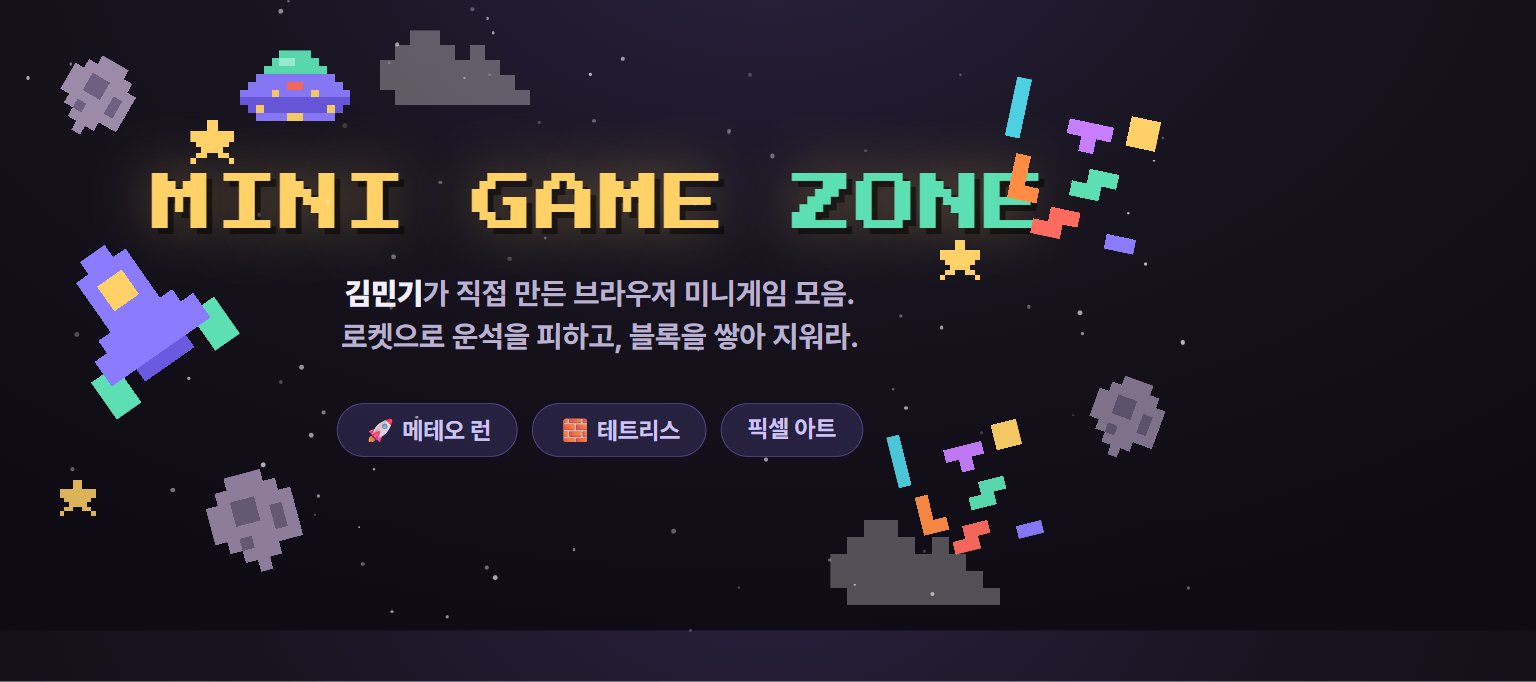
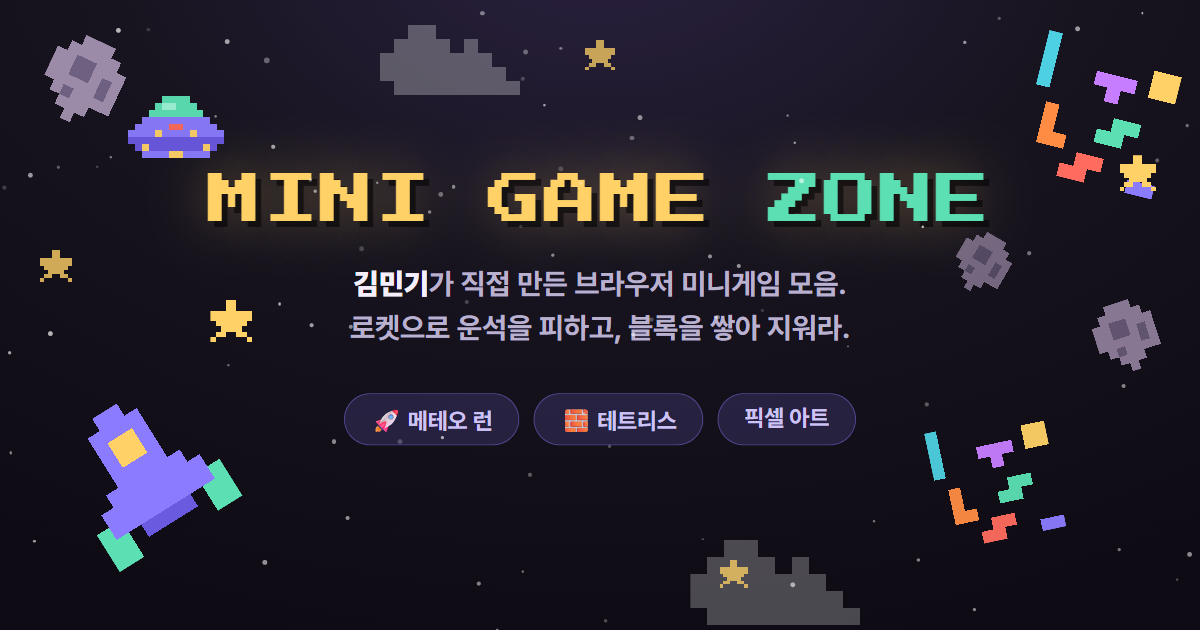
OG 커버 균형 조정: 텍스트 정중앙 + 스프라이트 네 모서리 대칭 배치

diff --git a/tools/og-card.html b/tools/og-card.html
@@ -8,27 +8,29 @@
 <style>
   * { margin: 0; padding: 0; box-sizing: border-box; }
   body { width: 1200px; height: 630px; overflow: hidden;
-    background: radial-gradient(1200px 700px at 50% -10%, #2A2140 0%, #17141F 45%, #0E0B14 100%);
+    background: radial-gradient(1100px 720px at 50% -10%, #2A2140 0%, #17141F 45%, #0E0B14 100%);
     font-family: 'Pretendard Variable', sans-serif; color: #F4EFFA; }
   .scene { position: relative; width: 1200px; height: 630px; }
   .star { position: absolute; background: #fff; border-radius: 50%; }
   .sprite { position: absolute; image-rendering: pixelated; }
-  .copy { position: absolute; inset: 0; display: flex; flex-direction: column;
-    align-items: center; justify-content: center; text-align: center; }
-  .zone { font-family: 'Press Start 2P', monospace; font-size: 62px; color: #FFD166;
-    letter-spacing: 2px; text-shadow: 6px 6px 0 rgba(0,0,0,.5), 0 0 55px rgba(255,209,102,.4); }
+  /* 중앙 텍스트는 정확히 가운데 — 스프라이트는 네 모서리에만 배치 */
+  .copy { position: absolute; left: 50%; top: 50%; transform: translate(-50%, -52%);
+    display: flex; flex-direction: column; align-items: center; text-align: center; }
+  .zone { font-family: 'Press Start 2P', monospace; font-size: 54px; color: #FFD166;
+    letter-spacing: 2px; white-space: nowrap;
+    text-shadow: 6px 6px 0 rgba(0,0,0,.55), 0 0 55px rgba(255,209,102,.4); }
   .zone em { color: #5CE0B3; font-style: normal; }
-  .desc { font-size: 30px; font-weight: 700; color: #B9B1CE; margin-top: 36px; line-height: 1.45; }
+  .desc { font-size: 29px; font-weight: 700; color: #B9B1CE; margin-top: 34px; line-height: 1.5; }
   .desc b { color: #F4EFFA; }
   .badges { display: flex; gap: 14px; margin-top: 44px; }
   .badge { background: rgba(139,124,255,.16); border: 1px solid rgba(139,124,255,.45);
-    border-radius: 999px; padding: 10px 26px; font-size: 24px; font-weight: 700; color: #CDC3F5; }
+    border-radius: 999px; padding: 10px 26px; font-size: 23px; font-weight: 700; color: #CDC3F5; }
 </style>
 </head>
 <body>
 <div class="scene" id="scene">
   <div class="copy">
-    <p class="zone">MINI GAME<em>&nbsp;ZONE</em></p>
+    <p class="zone">MINI GAME <em>ZONE</em></p>
     <p class="desc"><b>김민기</b>가 직접 만든 브라우저 미니게임 모음.<br>로켓으로 운석을 피하고, 블록을 쌓아 지워라.</p>
     <div class="badges">
       <span class="badge">🚀 메테오 런</span><span class="badge">🧱 테트리스</span><span class="badge">픽셀 아트</span>
@@ -51,20 +53,24 @@
       transform: `rotate(${rot}deg)`, opacity: alpha });
     scene.appendChild(img);
   };
+  // 네 모서리 대칭 배치 — 가운데 텍스트 영역은 비움
   // 왼쪽: 메테오 런 세트
-  put('rocket', 60, 240, 150, -35);
-  put('meteor', 60, 60, 80, 30);
-  put('meteor', 210, 470, 100, -15, .9);
-  put('star', 190, 120, 44);
-  put('star', 60, 480, 36, 0, .85);
-  put('boss', 240, 50, 110, 0, .95);
-  // 오른쪽: 테트리스 세트
-  put('tetris', 1000, 90, 150, 12);
-  put('tetris', 900, 420, 130, -14, .95);
-  put('meteor', 1090, 380, 80, 20, .8);
-  put('star', 940, 240, 40);
-  put('cloud', 380, 30, 150, 0, .3);
-  put('cloud', 830, 520, 170, 0, .28);
+  put('meteor', 45, 40, 86, 25);
+  put('boss',   128, 96, 96, 0, .95);
+  put('rocket', 70, 400, 145, -32);
+  put('star',   210, 300, 42);
+  put('star',   40, 250, 32, 0, .8);
+  // 오른쪽: 테트리스 세트 — 가장자리까지 펼침
+  put('tetris', 1030, 45, 140, 14);
+  put('tetris', 935, 420, 120, -12, .95);
+  put('meteor', 1095, 300, 70, -18, .85);
+  put('meteor', 955, 235, 60, 30, .7);
+  put('star',   1120, 155, 36);
+  // 상하 가장자리 구름·별
+  put('cloud', 380, 25, 140, 0, .28);
+  put('cloud', 690, 540, 170, 0, .25);
+  put('star',   585, 40, 30, 0, .75);
+  put('star',   720, 560, 28, 0, .75);
 </script>
 </body>
 </html>
